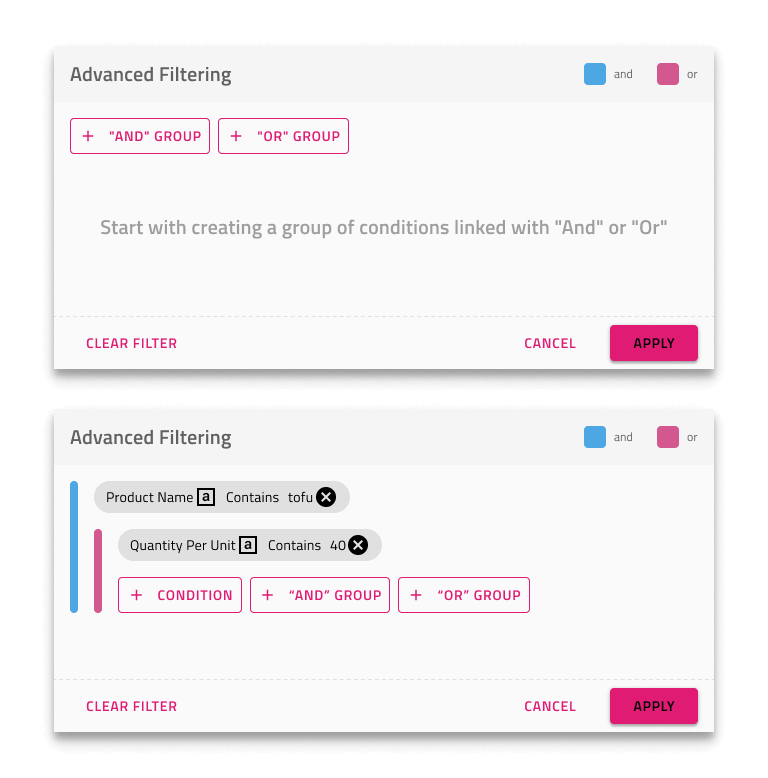
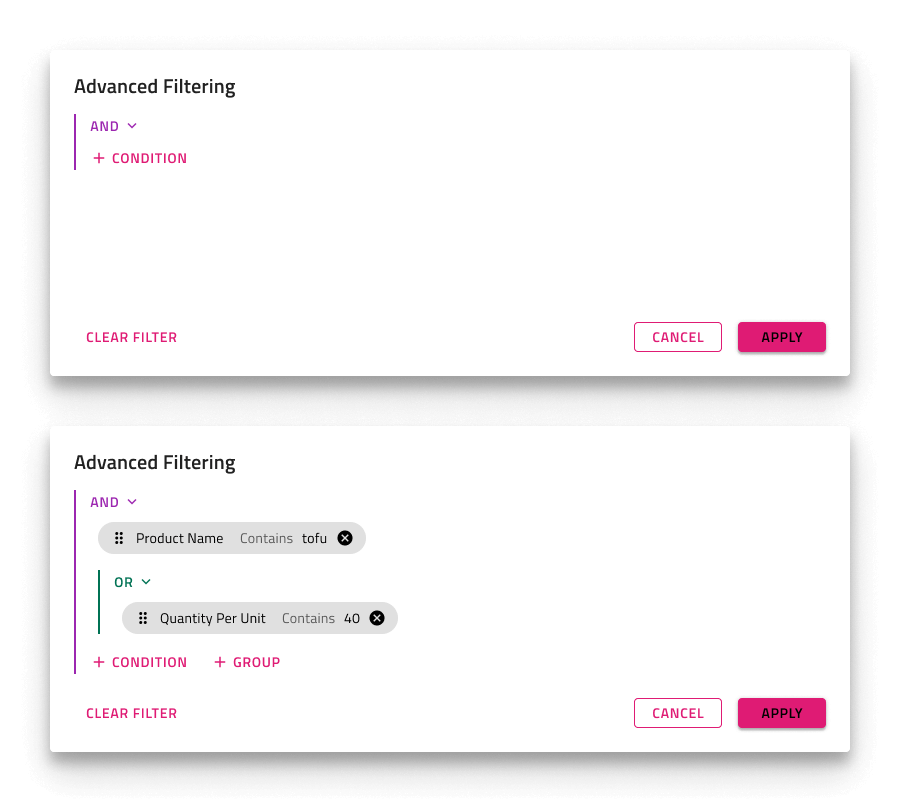
Grid Advanced Filter - text and image update

diff --git a/en/components/grid-advanced-filter.md b/en/components/grid-advanced-filter.md
@@ -14,9 +14,9 @@ Use the Grid Advanced Filter to specify advanced filtering criteria spanning ove
 
 ## Advanced Filter Feature
 
-The Grid has three `Advanced Filtering` components under `Grid Features`, one for each Size, that represent the overlay shown over the Grid. In Figma you can switch between the different sizes via the dedicated `Size` property in the properties panel.
+The Grid `Advanced Filtering` component under `Grid Features` has one size and represents an overlay shown over the Grid.
 
-<img class="responsive-img" src="../images/grid_advanced_filter_sizes.png" srcset="../images/grid_advanced_filter_sizes@2x.png 2x" />
+<img class="responsive-img" src="../images/grid_advanced_filter.png" srcset="../images/grid_advanced_filter@2x.png 2x" />
 
 ## Filter Expression State
 
